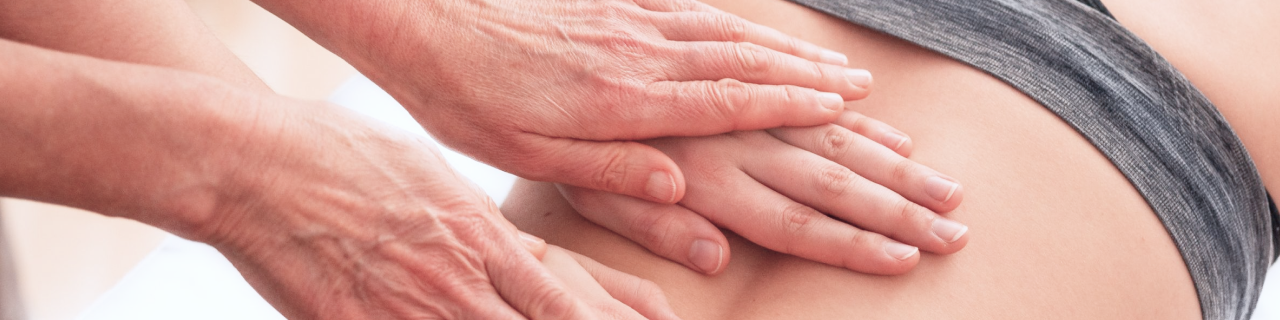
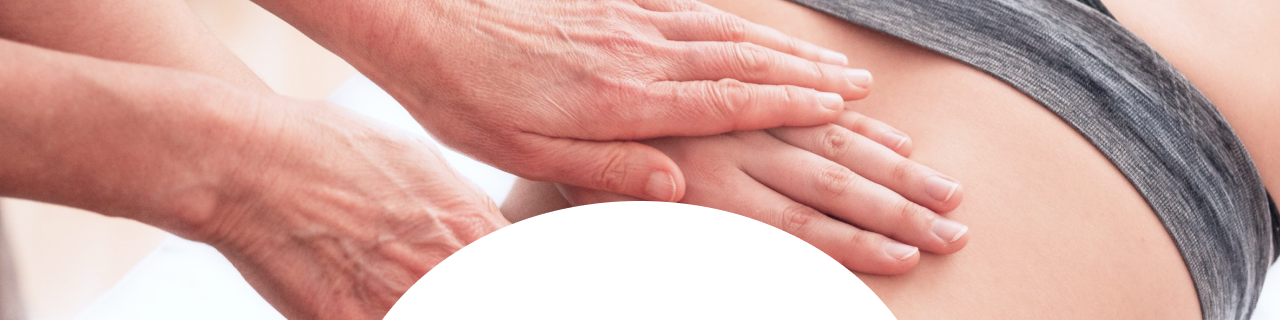
html, css 修正

Changed region(s): [[0.2812, 0.625, 0.7188, 1.0]]

diff --git a/style.css b/style.css
@@ -13,13 +13,18 @@
 }
 
 /* Google Fonts--Merriweather Sans 英語のバックグラウンドタイトル */
-.background-title-font {
+.bg-title-font {
   font-family: 'Merriweather Sans', sans-serif;
 }
 
 /* Google Fonts--Shippori Mincho 日本語の縦書きタイトル */
 .vertical-title-font {
   font-family: 'Shippori Mincho', serif;
+}
+
+/* 一番下に配置 */
+.z-index-0 {
+  z-index: 0;
 }
 
 /* 縦書きにする */
@@ -112,7 +117,7 @@
   margin-bottom: 40px;
 }
 
-.section-title, .section-subtitle {
+.section-title {
   font-size: 2.4rem;
 }
 
@@ -152,6 +157,11 @@
   background-repeat: no-repeat;
   background-size: contain;
   vertical-align: middle;
+}
+
+.section-subtitle {
+  font-size: 2.4rem;
+  margin-top: 20px;
 }
 
 /* border */
@@ -222,18 +232,6 @@
   font-size: 2.8rem;
 }
 
-.concept__box-left {
-  width: 40%;
-  padding-right: 20px;
-}
-
-.concept__subtitle {
-  font-size: 3.2rem;
-  letter-spacing: 0.54rem;
-  font-weight: 700;
-  margin: 20px 0;
-}
-
 /* news */
 .news__list + .news__list {
   margin-left: 2vw;
@@ -244,14 +242,75 @@
   border-radius: 5px;
 }
 
+/* concept */
+.concept__container {
+  padding-bottom: 60px;
+}
+
+.concept__bigbox {
+  position: relative;
+}
+
+.concept__bg-img-green {  /* 背景の画像 */
+  background-image: url(./images/BGicon_Green.png);
+  background-repeat: no-repeat;
+  background-size: auto 336px;
+  background-position: right -70px bottom 0px;
+  background-color:rgba(255,255,255,0.25);
+  background-blend-mode:lighten;
+}
+
+
+.concept__box-left {
+  width: 40%;
+  padding-right: 20px;
+}
+
+.concept__subtitle {
+  font-size: 3.2rem;
+  letter-spacing: 0.54rem;
+  font-weight: 700;
+  margin: 20px 0;
+  z-index: 10;
+}
+
+.concept__bg-text {
+  font-size: 134px;
+  color: #DAE2C2;
+  opacity: 0.25;
+  position: absolute;
+  top: 110px;
+  left: 20px;
+}
+
 /* course */
 .course__container {
   padding-bottom: 50px;
 }
 
+.course__relative {
+  position: relative;
+}
+
+.course__bg-text {
+  font-size: 134px;
+  color: #DAE2C2;
+  opacity: 0.75;
+  position: absolute;
+  top: 110px;
+  left: 20px;
+}
+
 .course__bigbox {
   gap: 40px;
   margin-top: 40px;
+}
+
+.course__bg-img-green {  /* 背景の画像 */
+  background-image: url(./images/BGicon_Green.png);
+  background-repeat: no-repeat;
+  background-size: auto 336px;
+  background-position: right -70px bottom 0px;
 }
 
 .course__img img {
@@ -277,6 +336,7 @@
 .voice__flame img {
   height: 320px;
   object-fit: cover;
+  object-position: bottom;
 }
 
 .voice__absolute {
@@ -362,7 +422,6 @@
   height: 350px;
 }
 
-
 /* フッター */
 .footer__box {
   padding: 10px 0;
@@ -377,13 +436,21 @@
 /* ----------------------
 レスポンシブ　ブレークポイント　基本768px（必要に応じて900px）
 ---------------------- */
-/* 900px */
+/* 768pxより大きい */
+@media screen and (min-width: 769px) {
+  /* voice */
+  .voice__flame-sp {
+    display: none;
+  }
+}
+
+
+/* 900pxより小さい */
 @media screen and (max-width: 900px) {
   /* submit-button-clear */
   .br-none {
     display: none;
   }
- 
   
   /* footer */
   .footer__nav-box, .footer__nav-menu {
@@ -395,13 +462,16 @@
     margin: 0 auto;
   }
 
-  
 }
 
-/* 700px */
+/* 768pxより小さい */
 @media screen and (max-width: 768px) {
-
   /* concept */
+  .concept__bg-img-green {  /* 背景の画像 */
+    background-size: auto 175px;
+    background-position: right -70px bottom 0px;
+  }
+  
   .concept__bigbox {
     flex-direction: column-reverse;
   }
@@ -415,16 +485,37 @@
     text-align: center;
   }
 
+  .concept__bg-text {
+    font-size: 72px;
+    top: 460px;
+    left: -40px;
+  }
+
   .concept__box-right {
     text-align: center;
   }
 
   /* course */
+  .course__bg-text {
+    font-size: 72px;
+    top: 70px;
+    left: -40px;
+  }
+
   .course__bigbox {
     flex-direction: column;
   }
 
+  .course__bg-img-green {  /* 背景の画像 */
+    background-size: auto 175px;
+    background-position: right -70px bottom 0px;
+  }
+
   /* voice */
+  .voice__flame-pc {
+    display: none;
+  }  
+
   .voice__bigbox {
     flex-direction: column;
   }

diff --git a/index.html b/index.html
@@ -73,7 +73,7 @@
 
 <section id="concept">
   <div>
-    <div class="concept__container background-white">
+    <div class="concept__container concept__bg-img-green background-white">
       <div class="concept__bigbox wrapper flex jc-center">
         <div class="concept__box-left">
           <div class="title-box">
@@ -81,6 +81,9 @@
             <h3 class="section-subtitle mossgreen">特徴</h3>
           </div>
           <h4 class="concept__subtitle mossgreen">日々変化する<br class="br-none">カラダと心を癒す<br class="br-none">パーソナル<br class="br-none">トレーナーとして</h4>
+          <div class="concept__bg-text bg-title-font">
+            <span class="capitalize z-index-0">concept</span>
+          </div>
           <p class="concept__text">当院では、問診にてお客様の症状や生活スタイル、ご希望を丁寧にお伺いした上で施術方針を立てていきます。<br><br>
             また、根本的に症状を改善するために、お客様ご自身で行えるケアやストレッチもお伝えします。<br><br>
             ご不安な点や疑問点などお気軽にご相談くださいませ。</p>
@@ -102,10 +105,13 @@
       <div class="flame-section-top">
         <img src="./images/Frame-section-top.png" alt="">
       </div>  
-      <div class="wrapper">
-        <div class="title-box ta-center">
+      <div class="wrapper course__bg-img-green">
+        <div class="title-box ta-center course__relative">
           <h2 class="section-title mossgreen bold icon-both">コース・料金</h2>
           <h3 class="section-subtitle mossgreen bold">当院では保険診療、自費診療<br>ともにご対応しております</h3>
+          <div class="course__bg-text bg-title-font">
+            <span class="capitalize z-index-0">course</span>
+          </div>
         </div>
         <div class="course__bigbox flex jc-center ai-center">
           <div class="course__box">
@@ -143,8 +149,8 @@
   <div>
     <div class="voice__container"> 
       <div class="flame-section-top voice__flame">
-        <img class="voice__flame-pc" src="./images/Frame-voice-pc.png" alt="">
-        <img class="voice__flame-sp" src="./images/Frame-voice-sp.png" alt="">
+        <img class="voice__flame-pc" src="./images/Bottom-Carouselgroup1.png" alt="施術の様子">
+        <img class="voice__flame-sp" src="./images/SP-Bottom-Carouselgroup1.png" alt="施術の様子">
       </div>
       <div class="wrapper-no-margin">
         <div class="voice__absolute ta-center">
